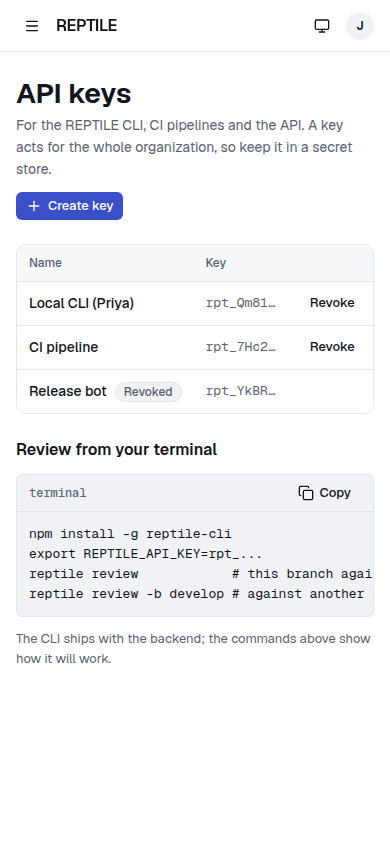
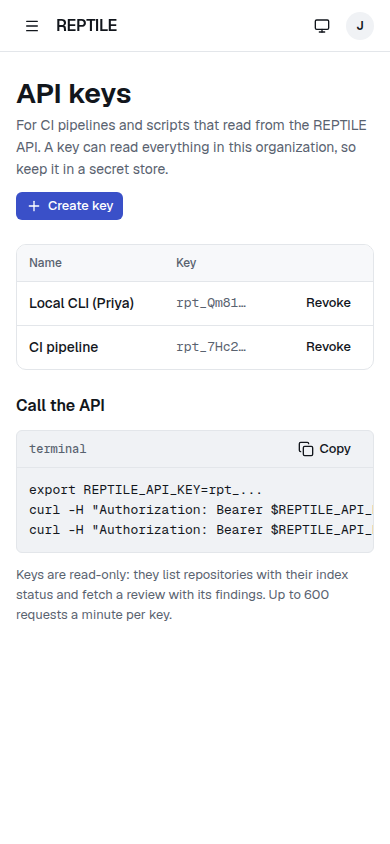
build: features.csv, build log and screenshots for the second pass (parity 92.9)
Claude-Session: https://claude.ai/code/session_019My64CYju2hajJkH5jT7HL

diff --git a/replica/build-log.md b/replica/build-log.md
@@ -35,6 +35,18 @@ needs the backend.
 Extra pages not in the recon inventory: review detail (`/reviews/[id]`), fix-with-your-agent prompt pages (`/fix/...`),
 new organization, not-found and error boundaries, and `/design`.
 
+## Second pass: gaps from /replica-diff (2026-10-04)
+
+| ID | screen / area | status | missing | harder than expected |
+| --- | --- | --- | --- | --- |
+| S15 | API keys | done | the CLI itself (could) | — The page promised an `npm install -g reptile-cli` that doesn't exist; it now shows `curl` calls to the two read endpoints the keys actually work with |
+| S13 | Billing: Free plan | done | — | "free" already meant "canceled subscription" in the Stripe mapping; Free is `plan = free` with `billing_status = none`, so a canceled Team org stays paused until an admin picks Free. New states: trial ended / canceled with "Continue on Free" (one-person orgs only), Free active, free allowance used |
+| S12 | Members on Free | done | — | invites and invite acceptance are refused on Free (one person); the page says why instead of showing Invite |
+| — | Learning from review comments | done | — | `feedback.finding_id` was required; human comments belong to a PR and a file, not a finding (migration 0005). Only people with write access, 20+ characters, no bots, deduplicated by comment id |
+
+Checks after this pass: 93 vitest, e2e 96 passed + 3 expected failures (open S3s), 56/56 screen states, 4 flow scripts.
+Parity: 91.2 → 92.9 (both remaining *should* rows done; everything left is *could*).
+
 ## Bigger than it looked
 
 - **The product is the backend.** Almost every must-have is "partial": the screens and the pure review logic are done, but

diff --git a/replica/parity.md b/replica/parity.md
@@ -1,5 +1,9 @@
 # Parity: REPTILE vs Greptile
 
+> **Update after /replica-build (2026-10-04):** feature parity is now **92.9**. Free plan and learning from human review
+> comments are done, and S15 no longer advertises the unbuilt CLI (top-five items 3–5). Every row still missing is a
+> *could*. Items 1–2 (first live run, installation squatting) are still open. Everything below is the original report.
+
 Date: 2026-10-04. Build: aae07c6 (after /replica-test). Original: Greptile, from public docs extracts only (see `recon.md`).
 
 ## Verdict: shippable on paper, not yet proven live
